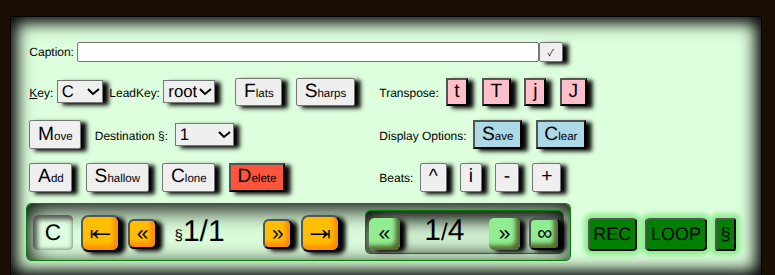
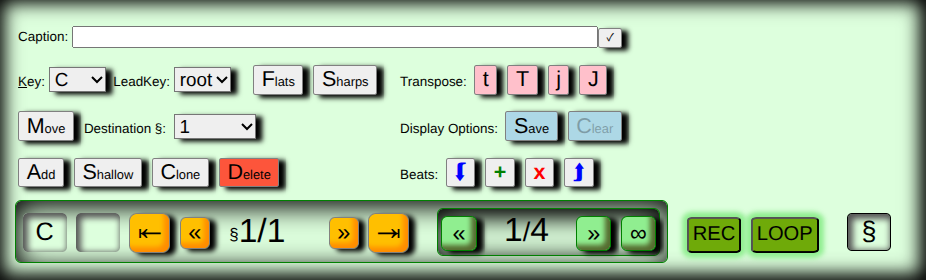
Cleaned up help and added help around keyboard shortcuts (beat looping, stop looping), new transport image, updated transport actions table. Fixed keyboard shortcut span radii.

diff --git a/help.html b/help.html
@@ -685,9 +685,12 @@
     </ul>
 
     <p class="bigpoint">Getting started with <span class="productsmaller">infinite-neck</span></p>
-    <p>The best way to get started is to <button style="background-color: #d98eff;   box-shadow: 2pt 2pt 2pt 0.2pt gray;"  onclick="window.location.href='index.html'">Launch Infinite Neck</button> and open some songs from <span class="GUIReferenceInline">File > Song Library</span>.  Usually the first thing you want to do is hit LOOP on the Transport,
-        but you can also use the Transport to walk through the Sections manually.  Then go through the menu buttons on the top of the page to find most of the features.
+    <p>The best way to get started is to <button style="background-color: #d98eff;   box-shadow: 2pt 2pt 2pt 0.2pt gray;"  onclick="window.open('index.html', '_blank')">Launch Infinite Neck</button> and open some songs from <span class="GUIReferenceInline">File > Song Library</span>.  Usually the first thing you want to do is hit <button class="BtnPunchedOut">LOOP</button> on the <a href="#transport">Transport</a>,
+        but you can also use the <a href="#transport">Transport</a> to walk through the Sections manually.  Then go through the menu buttons on the top of the page to find most of the features.
     </p>
+    <p>Here is a demo song that shows a guitar, and a Piano listener.  Open the song: <a href="index.html?song=demo/piano-follows-guitar-basic-blues.json" target="_blank">piano-follows-guitar-basic-blues.json</a>, then close the Info page with <span class="key">ESC</span> or the <button class="BtnPunchedOut">Close</button> button, and hit the <button class="BtnPunchedOut">LOOP</button> button on the <a href="#transport">Transport</a>.
+    </p>    
+
     <p class="bigpoint"><span class="productsmaller">infinite-neck</span> helps you visualize notes across the neck of your instrument.
     </p>
 
@@ -1924,13 +1927,17 @@ do Copy/Paste how you might think it does, for example (it uses the ClipPlugin, 
     are shown with grayed tags. 
     <br>
     <br>
-    The  <a href="#glossaryRoleBadges"></a>Role</a> badges look like: <span class="songLibraryInstrument instrumentMain">Main</span>
+    The  <a href="#glossaryRoleBadges">Role badges</a> look like: <span class="songLibraryInstrument instrumentMain">Main</span>
     <span class="songLibraryInstrument instrumentMain instrumentNotVisible">Main-hidden</span> <span
         class="songLibraryInstrument instrumentListener">Listener</span> <span
         class="songLibraryInstrument instrumentListener instrumentNotVisible">Listener-hidden</span> <span
         class="songLibraryInstrument instrumentObserver">Observer</span> <span
-        class="songLibraryInstrument instrumentObserver instrumentNotVisible">Observer-hidden</span></p>
-
+        class="songLibraryInstrument instrumentObserver instrumentNotVisible">Observer-hidden</span>
+</p>
+<p>However, instead of the words "Main", "Listener", etc., they will have actual instrument tunings shown:
+    <span class="songLibraryInstrument instrumentMain">S6</span> <span
+        class="songLibraryInstrument instrumentListener">P46</span> <span
+        class="songLibraryInstrument instrumentObserver">S6</span>
 </p>
 <a name="songfileInfo"></a>
 <h3>Info (Song)</h3>
@@ -2197,6 +2204,7 @@ can add your own, or edit the list.  Some built-in Chart Positions will remain.<
 
 <a name="transport"></a>
 <h3>Transport</h3>
+<p>Open the Transport with the <span class="key">t</span> keyboard shortcut if it is not showing.  Or, the command-line <span class="menuExampleLine"><b><small>/rt</small></b></span> also toggles the Transport, and you can park it on the screen bottom with <span class="menuExampleLine"><b><small>/rp</small></b></span> or screen top-right with <span class="menuExampleLine"><b><small>/rP</small></b></span>.  Once it is showing, you can drag it around with the mouse.  You can then use the keyboard shortcut <span class="key">t</span> to toggle it visible/hidden at any time.</p>
 <p>The Transport lets you:
     <ul>
     <li>View the key of the current Section.
@@ -2383,6 +2391,7 @@ can add your own, or edit the list.  Some built-in Chart Positions will remain.<
 
 
 <p>This table summarizes the transport navigation commands available in the app. 
+    The <b>Key</b> column shows the keyboard shortcut if available.
     The <b>Menu</b> column shows the command-line path, and the <b>UI</b> column 
     shows the button in the Transport.  </p>
 
@@ -2439,7 +2448,7 @@ can add your own, or edit the list.  Some built-in Chart Positions will remain.<
     </tr>
     <tr>
         <td>PrevBeat</td>
-        <td><span class="key"> b</span></td>
+        <td><span class="key">b</span></td>
         <td><span class="menuExampleLine"><b><small>/rbp</small></b></span></td>
         <td>prevBeat</td>
         <td>
@@ -2448,7 +2457,7 @@ can add your own, or edit the list.  Some built-in Chart Positions will remain.<
     </tr>
     <tr>
         <td>NextBeat</td>
-        <td></td>
+        <td><span class="key">n</span></td>
         <td><span class="menuExampleLine"><b><small>/rbn</small></b></span></td>
         <td>nextBeat</td>
         <td>
@@ -2470,17 +2479,8 @@ can add your own, or edit the list.  Some built-in Chart Positions will remain.<
         <td></td>
     </tr>
     <tr>
-        <td>LoopBeats</td>
-        <td></td>
-        <td><span class="menuExampleLine"><b><small>/re</small></b></span></td>
-        <td>toggleLoopBeats</td>
-        <td>
-            <button id="btnLoopBeats" class="redButton downyButton" type="button" tabindex="-1">&infin;</button>&nbsp;&nbsp;
-        </td>
-    </tr>
-    <tr>
         <td>RECORD beats</td>
-        <td><span class="key">SHIFT-R</span></td>
+        <td><span class="key">R</span></td>
         <td><span class="menuExampleLine"><b><small>/rr</small></b></span></td>
         <td>REC</td>
         <td>
@@ -2488,10 +2488,15 @@ can add your own, or edit the list.  Some built-in Chart Positions will remain.<
             tabindex="-1">REC</button>&nbsp;&nbsp;
         </td>
     </tr>
-
-
-
-
+    <tr>
+        <td>LoopBeats</td>
+        <td><span class="key">B</span></td>
+        <td><span class="menuExampleLine"><b><small>/re</small></b></span></td>
+        <td>toggleLoopBeats</td>
+        <td>
+            <button id="btnLoopBeats" class="redButton downyButton" type="button" tabindex="-1">&infin;</button>&nbsp;&nbsp;
+        </td>
+    </tr>
     <tr>
         <td>LoopSong</td>
         <td><span class="key"> l</span></td>
@@ -2499,6 +2504,14 @@ can add your own, or edit the list.  Some built-in Chart Positions will remain.<
         <td>toggleLoopSections</td>
         <td>
             <button id="btnLoopSections" class="ArmedButton" type="button" tabindex="-1">LOOP</button>&nbsp;&nbsp;
+        </td>
+    </tr>
+    <tr>
+        <td>LoopStop</td>
+        <td><span class="key">L</span></td>
+        <td><span class="menuExampleLine"><b><small>/rL</small></b></span></td>
+        <td>clearBeatAndSectionLooping</td>
+        <td>
         </td>
     </tr>
     <tr>
@@ -2543,16 +2556,17 @@ can add your own, or edit the list.  Some built-in Chart Positions will remain.<
 
 <a name="spanSectionDrawer"></a>
 <h3>Section Drawer</h3>
-  <p><img src="img/help/context/transport-w-section-drawer.png">
-            <br><i>On the transport, the <b>Section Drawer</b> is opened, giving you access to all the Section controls..</i>
-            <br>Open the <b>Section Drawer</b> with the button <button class="ArmedButton" type="button" tabindex="-1">&sect;</button> or with keystroke <span class="key">s</span>
-  </p>
+  <p>
+    Open the <b>Section Drawer</b> with the button <button class="ArmedButton" type="button" tabindex="-1">&sect;</button> or with keystroke <span class="key">s</span>
+    <br><br><img width="800" src="img/help/context/transport-w-section-drawer.png">
+            <br><i>On the transport, the <b>Section Drawer</b> is opened, giving you access to all the Section controls. The Section Drawer button changes to "punched-in".</i>
+            </p>
 
 
 <p>The <b>Section Drawer</b> lets you:
 <ul>
-    <li>Set the <b>Caption</b> of the current Section. (Might need to hit <span class="key">a</span> (while NOT editing the Caption) to show the Song
-        caption.)
+    <li>Set the <b>Caption</b> of the current Section. (Might need to hit <span class="key">a</span> while NOT editing the Caption to show the Song
+        caption in the app above all the Instruments.)
     <li>Set the <b>Key</b> of the current Section. (Also keyboard shortcut <span class="key">k</span> cycles through
         these.)
     <li>Set the <b><a href="#glossaryLeadKey">LeadKey</a></b> of the current Section (TinyNotes follow <a href="#glossaryLeadKey">LeadKey</a>) or "root" to follow the <a href="#glossaryKey">Key</a>.
@@ -2572,7 +2586,7 @@ can add your own, or edit the list.  Some built-in Chart Positions will remain.<
 
     <li>Add a beat before the existing first beat <button id="btnInsertFirstBeat" type="button" tabindex="-1" title="Insert First Beat"><span class="beat-icon">&#x2BAE;</span></button>
 
-    <li>Insert a beat, moving the current beat and all others later <button id="btnInsertBeat" type="button" tabindex="-1" title="Insert Beat"><span class="beat-icon"><b>+</b></span></button>
+    <li>Insert a beat, moving the current beat and all others later <button id="btnInsertBeat" type="button" tabindex="-1" title="Insert Beat"><span class="beat-icon"><b>+</b></span></button>  &nbsp;&nbsp;&nbsp;(also keystroke <span class="key">N</span>)
                     
     <li>Delete the current beat <button id="btnDeleteBeat" type="button" tabindex="-1" title="Delete Current Beat"><span class="beat-icon"><b>x</b></span></button>
                         
@@ -2776,7 +2790,7 @@ This is the <b><i>Destination</i></b> Section number of Move, Add, <a href='#glo
     
 </p>
 
-<p>Remember, this is just a display option, and does not change the actual notes on the neck.  So it is possible to choose B as the key with Flats, 
+<p>Again, this is just a display option, and does not change the actual notes on the neck.  So it is possible to choose B as the key with Flats, 
     and the neck will display the following notes: B&flat;, B, C, D&flat; D, etc., even though this may be enharmonically weird.  If you are playing 
     in G, set Sharps to true, and if you are playing in Gminor, set Flats to true.
 </p>
@@ -4370,10 +4384,21 @@ to hide menus and the <a href="#commandline">command-line</a>.</p>
                 <br><a href="#" class="KeymapNoteExample">Blue-groove keys</a> mean a note style is chosen.
                 <br><span class="KeymapActionsExample" style="font-size: 80%; padding: 4px;">Elipse</span> means a
                     Fingering style is chosen.
-                <br>All the green keys, and some of the others, alternately hide and show something, when clicked again.
-                    For example: pressing <span class="key">p</span> shows the palette; pressing <span class="key">p</span> again hides the palette.
-                <br><b>Two keys</b> in one cell here means one of the keys is <span class="key">SHIFT</span>+<span class="key">key</span>, and does the opposite or
-                    complementary Action.
+                <br>
+                <hr style="border: 1px solid black;">
+                &#9758;&nbsp;Two keys in one cell here means one of the keys is <span class="key">SHIFT</span>+<span class="key">key</span>, and does an opposite,
+                complementary, or related Action.
+                <br>
+                <p style="margin: 0; padding: 0; line-height: 1;">&#9758;&nbsp;Most of the green keys, and some of the others, alternately hide and show something, when clicked again.
+                    For example: pressing <span class="key">p</span> shows the palette; pressing <span class="key">p</span> again hides the palette.  
+                    <b>Exceptions:</b> 
+                    <ul>
+                        <li><small><i><span class="key">Shift+C</span> shows the command-line Clip plugin, such that if you hit <span class="key">Shift+C</span> again, it will run the Copy command.</i></small>
+                        <li><small><i><span class="key">Shift+P</span> shows the command-line plugins list, so hitting it again gets trapped by the command-line, but tries to find the non-existent "P" plugin.<i></small>
+                        <li><small><i><span class="key">/</span> shows the command-line, so hitting it again gets trapped by the command-line and simply takes you to the root of the command line, which is what it does anyway.<i></small>
+                        <li><small><i><span class="key">m</span> shows the command-line at its last location, so hitting it again gets trapped by the command-line and tries to execute an "m" command, which is usually not present, and certainly not what you want.<i></small>
+                    </ul>
+                </p>
             </div>
         </div>
     </div>
@@ -5075,6 +5100,8 @@ to hide menus and the <a href="#commandline">command-line</a>.</p>
                     This is useful for executing commands in plugins, 
                     leaving the plugin menu page to use the Transport or keyboard shortcut to change Sections, 
                     then using <span class="key">m</span> to pick back up where you left off in the plugin (or any menu item you want to use over and over). 
+                    Note: when authoring a tutorial in strict mode, you can't get to the command-line.  So in this mode there is an Easter Egg in keyboard shortcut <span class="key">CTRL+SHIFT+M</span> (which may be different on Mac - try Command (&#8984;) key plus SHIFT).  Use this to get 
+                    to the command-line to set Song properties while authoring.
                 </td>
             </tr>
             <tr>
@@ -5789,6 +5816,7 @@ to hide menus and the <a href="#commandline">command-line</a>.</p>
         <li><a href="help-plugins.html#helpCmd-fpc">ClipPlugin</a>
         <li><a href="help-plugins.html#helpCmd-fpm">MovePlugin</a>
         <li><a href="help-plugins.html#helpCmd-fpt">TransposePlugin</a>
+        <li><a href="help-plugins.html#helpCmd-fpo">TonalPlugin</a>
     </ul>
 
     <p>In the command-line menu, plugins live under 
@@ -5798,6 +5826,8 @@ to hide menus and the <a href="#commandline">command-line</a>.</p>
         Each plugin also has a 
         <span class="menuExampleLine"><b>h</b></span><span class="menuExamplePrompt"><b>h</b>elp</span>
          action that shows its current settings and the events it handles.</p>
+
+    <p>There is a handy utility for auditing plugin states.   <span class="menuExampleLine"><b>/fpA</b></span></p>  
 
     <a name="plugins-keyboard-menu"></a>
     <h2>Keyboard And Menu Reminders</h2>
@@ -6337,6 +6367,10 @@ you can add a new macro, copy the macro from the song that does another Instrume
                     class="songLibraryInstrument instrumentObserver instrumentNotVisible">Observer-hidden</span>
                 <br>Here "hidden" means that in <span class="GUIReferenceInline">Tunings > Tunings in Song</span> that the checkbox in column one is not checked, so the Instrument is not displayed.
                 <br><b>Main</b> is any regular Instrument that is not a <a href="#glossaryListener">Listener</a> or <a href="#glossaryObserver">Observer</a>.
+                <br>However, instead of the words "Main", "Listener", etc., they will have actual instrument tunings shown:
+                    <span class="songLibraryInstrument instrumentMain">S6</span> <span
+                        class="songLibraryInstrument instrumentListener">P46</span> <span
+                        class="songLibraryInstrument instrumentObserver">S6</span>
                 <br>The Role badges are used in the <span class="GUIReferenceInline">Tunings > Tunings in Song</span> table, the <span class="GUIReferenceInline">File > Download</span> page, and in the <span class="GUIReferenceInline">File > Song Library</span>.  They can also be shown with a widget in the <span class="GUIReferenceInline">Info page</span>.
             </td>
         </tr>
@@ -6349,6 +6383,11 @@ you can add a new macro, copy the macro from the song that does another Instrume
                 <a href="#glossaryRoleBadges">Role</a> badges that look like: 
                     <span class="songLibraryInstrument instrumentListener">Listener</span>
                     <span class="songLibraryInstrument instrumentListener instrumentNotVisible">Listener-hidden</span>
+                    
+                    <br>However, instead of the words "Listener", etc., they will have actual instrument tunings shown:
+                    <span class="songLibraryInstrument instrumentListener">S6</span>
+                    <span class="songLibraryInstrument instrumentListener instrumentNotVisible">P46</span>
+
             </td>
         </tr>
         <tr id="glossaryObserver">
@@ -6362,6 +6401,9 @@ you can add a new macro, copy the macro from the song that does another Instrume
                 <a href="#glossaryRoleBadges">Role</a> badges that look like: 
                     <span class="songLibraryInstrument instrumentObserver">Observer</span>
                     <span class="songLibraryInstrument instrumentObserver instrumentNotVisible">Observer-hidden</span>
+                <br>They will have actual instrument tunings shown, such as:    
+                    <span class="songLibraryInstrument instrumentObserver">S6</span>
+                    <span class="songLibraryInstrument instrumentObserver instrumentNotVisible">S6</span>
             </td>
         </tr>
         <tr id="glossaryDiamondRows">

diff --git a/key-handlers.js b/key-handlers.js
@@ -1066,6 +1066,11 @@ export function performCmdAction(menuItem, args){
 				}
 			}
 			break;
+		case "clearBeatAndSectionLooping":
+			clearBeatAndSectionLooping();
+			actionResult.result = "Looping Stopped";
+			break;
+		case "toggleLoopBeats":
 		case "toggleLoopSections":
 			Object.assign(actionResult, getTransportController().toggleLoopSections());
 			break;

diff --git a/menu.js b/menu.js
@@ -1860,6 +1860,11 @@ export var gMenuFile =    {
           "action": "toggleLoopSections"
         },
         {
+          "caption": "<b>L</b>oop stop",
+          "trigger": "L",
+          "action": "clearBeatAndSectionLooping"
+        },
+        {
           "caption": "loop b<b>e</b>ats",
           "trigger": "e",
           "action": "toggleLoopBeats"

diff --git a/templates/info/info.css b/templates/info/info.css
@@ -215,7 +215,7 @@
     padding-bottom: 2pt;
     display: inline-block;
     border: 1px solid black;
-    border-radius: 20%;
+    border-radius: 0.2em;
     background-color: lightgray;
     box-shadow: 0 0 1pt 1pt gray;
 }
